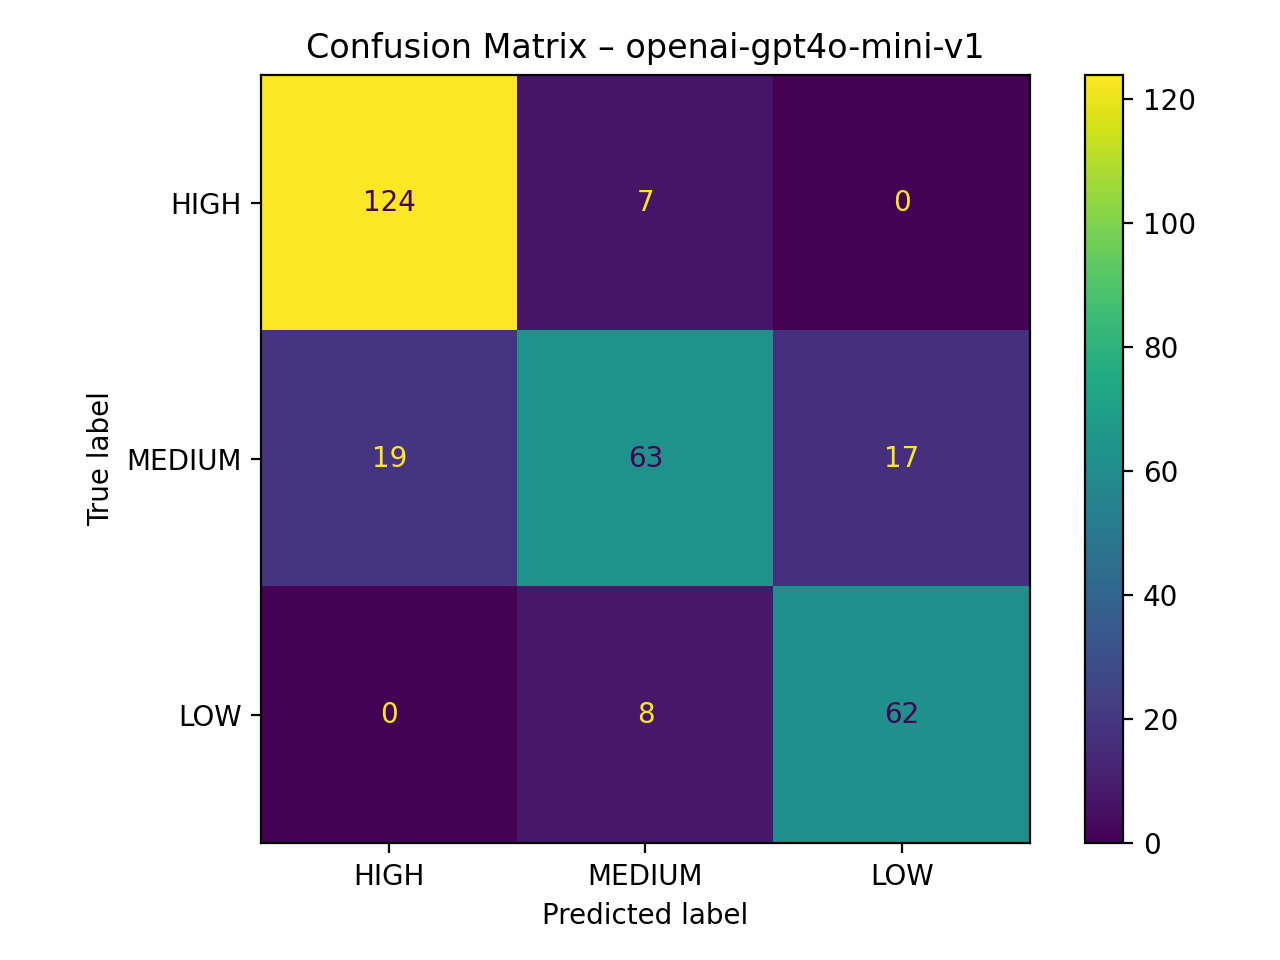
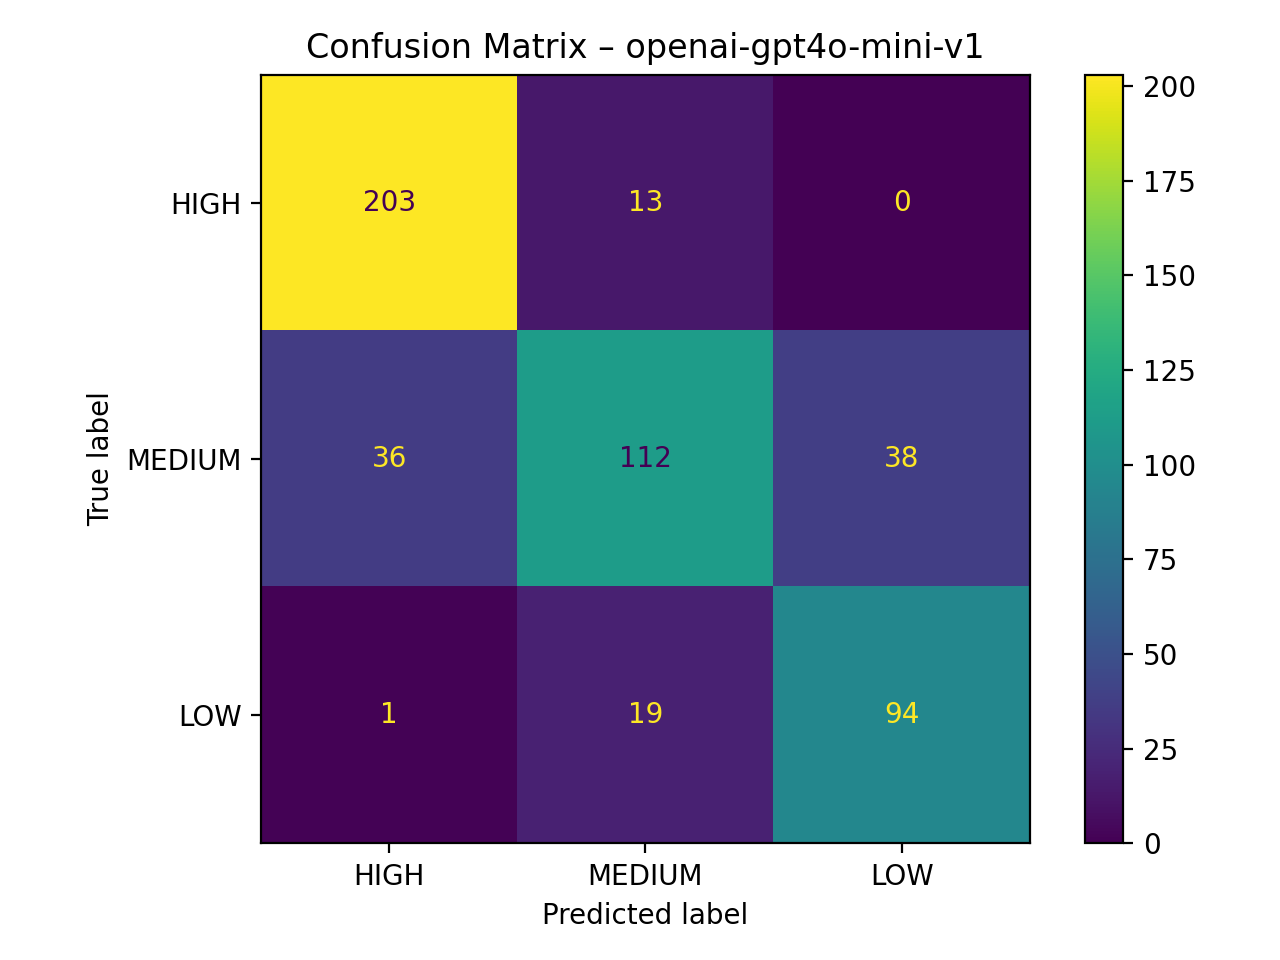
openai optimiert

diff --git a/untitled/app/scripts/train_openai.py b/untitled/app/scripts/train_openai.py
@@ -28,7 +28,7 @@ ALLOWED_LABELS = ["HIGH", "MEDIUM", "LOW"]
 
 OPENAI_MODEL = os.getenv("OPENAI_MODEL", "gpt-4o-mini")
 TEMPERATURE = float(os.getenv("OPENAI_TEMPERATURE", "0"))
-MAX_CALLS = int(os.getenv("OPENAI_MAX_CALLS", "300"))
+MAX_CALLS = int(os.getenv("OPENAI_MAX_CALLS", "516"))
 
 
 def build_text(row: pd.Series) -> str:
